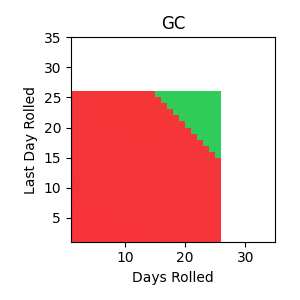
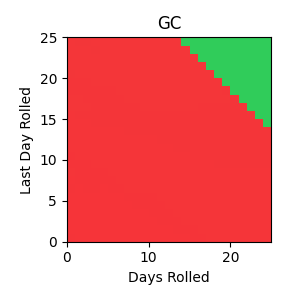
Fixed images

diff --git a/plot_MVO.py b/plot_MVO.py
@@ -42,7 +42,7 @@ def show_code_plot(code, df):
 
         rgb = rgbspectrum(row['{}'.format(code)], df_min, df_diff)
         
-        ax2 = add_rect(n_days, end, rgb, ax2)
+        ax2 = add_rect(n_days-1, end-1, rgb, ax2)
     
     return ax2
 
@@ -52,8 +52,8 @@ multi_df = pd.read_csv('Multi_day_MV5.csv', index_col=0)
 com_codes = multi_df.columns.tolist()
 for com in com_codes:
     ax2 = show_code_plot(com, multi_df)
-    ax2.set_xlim(1,35)
-    ax2.set_ylim(1,35)
+    ax2.set_xlim(0,25)
+    ax2.set_ylim(0,25)
     ax2.set_xlabel("Days Rolled", fontsize=10)
     ax2.set_ylabel("Last Day Rolled", fontsize=10)
     ax2.set_title("{}".format(com))
